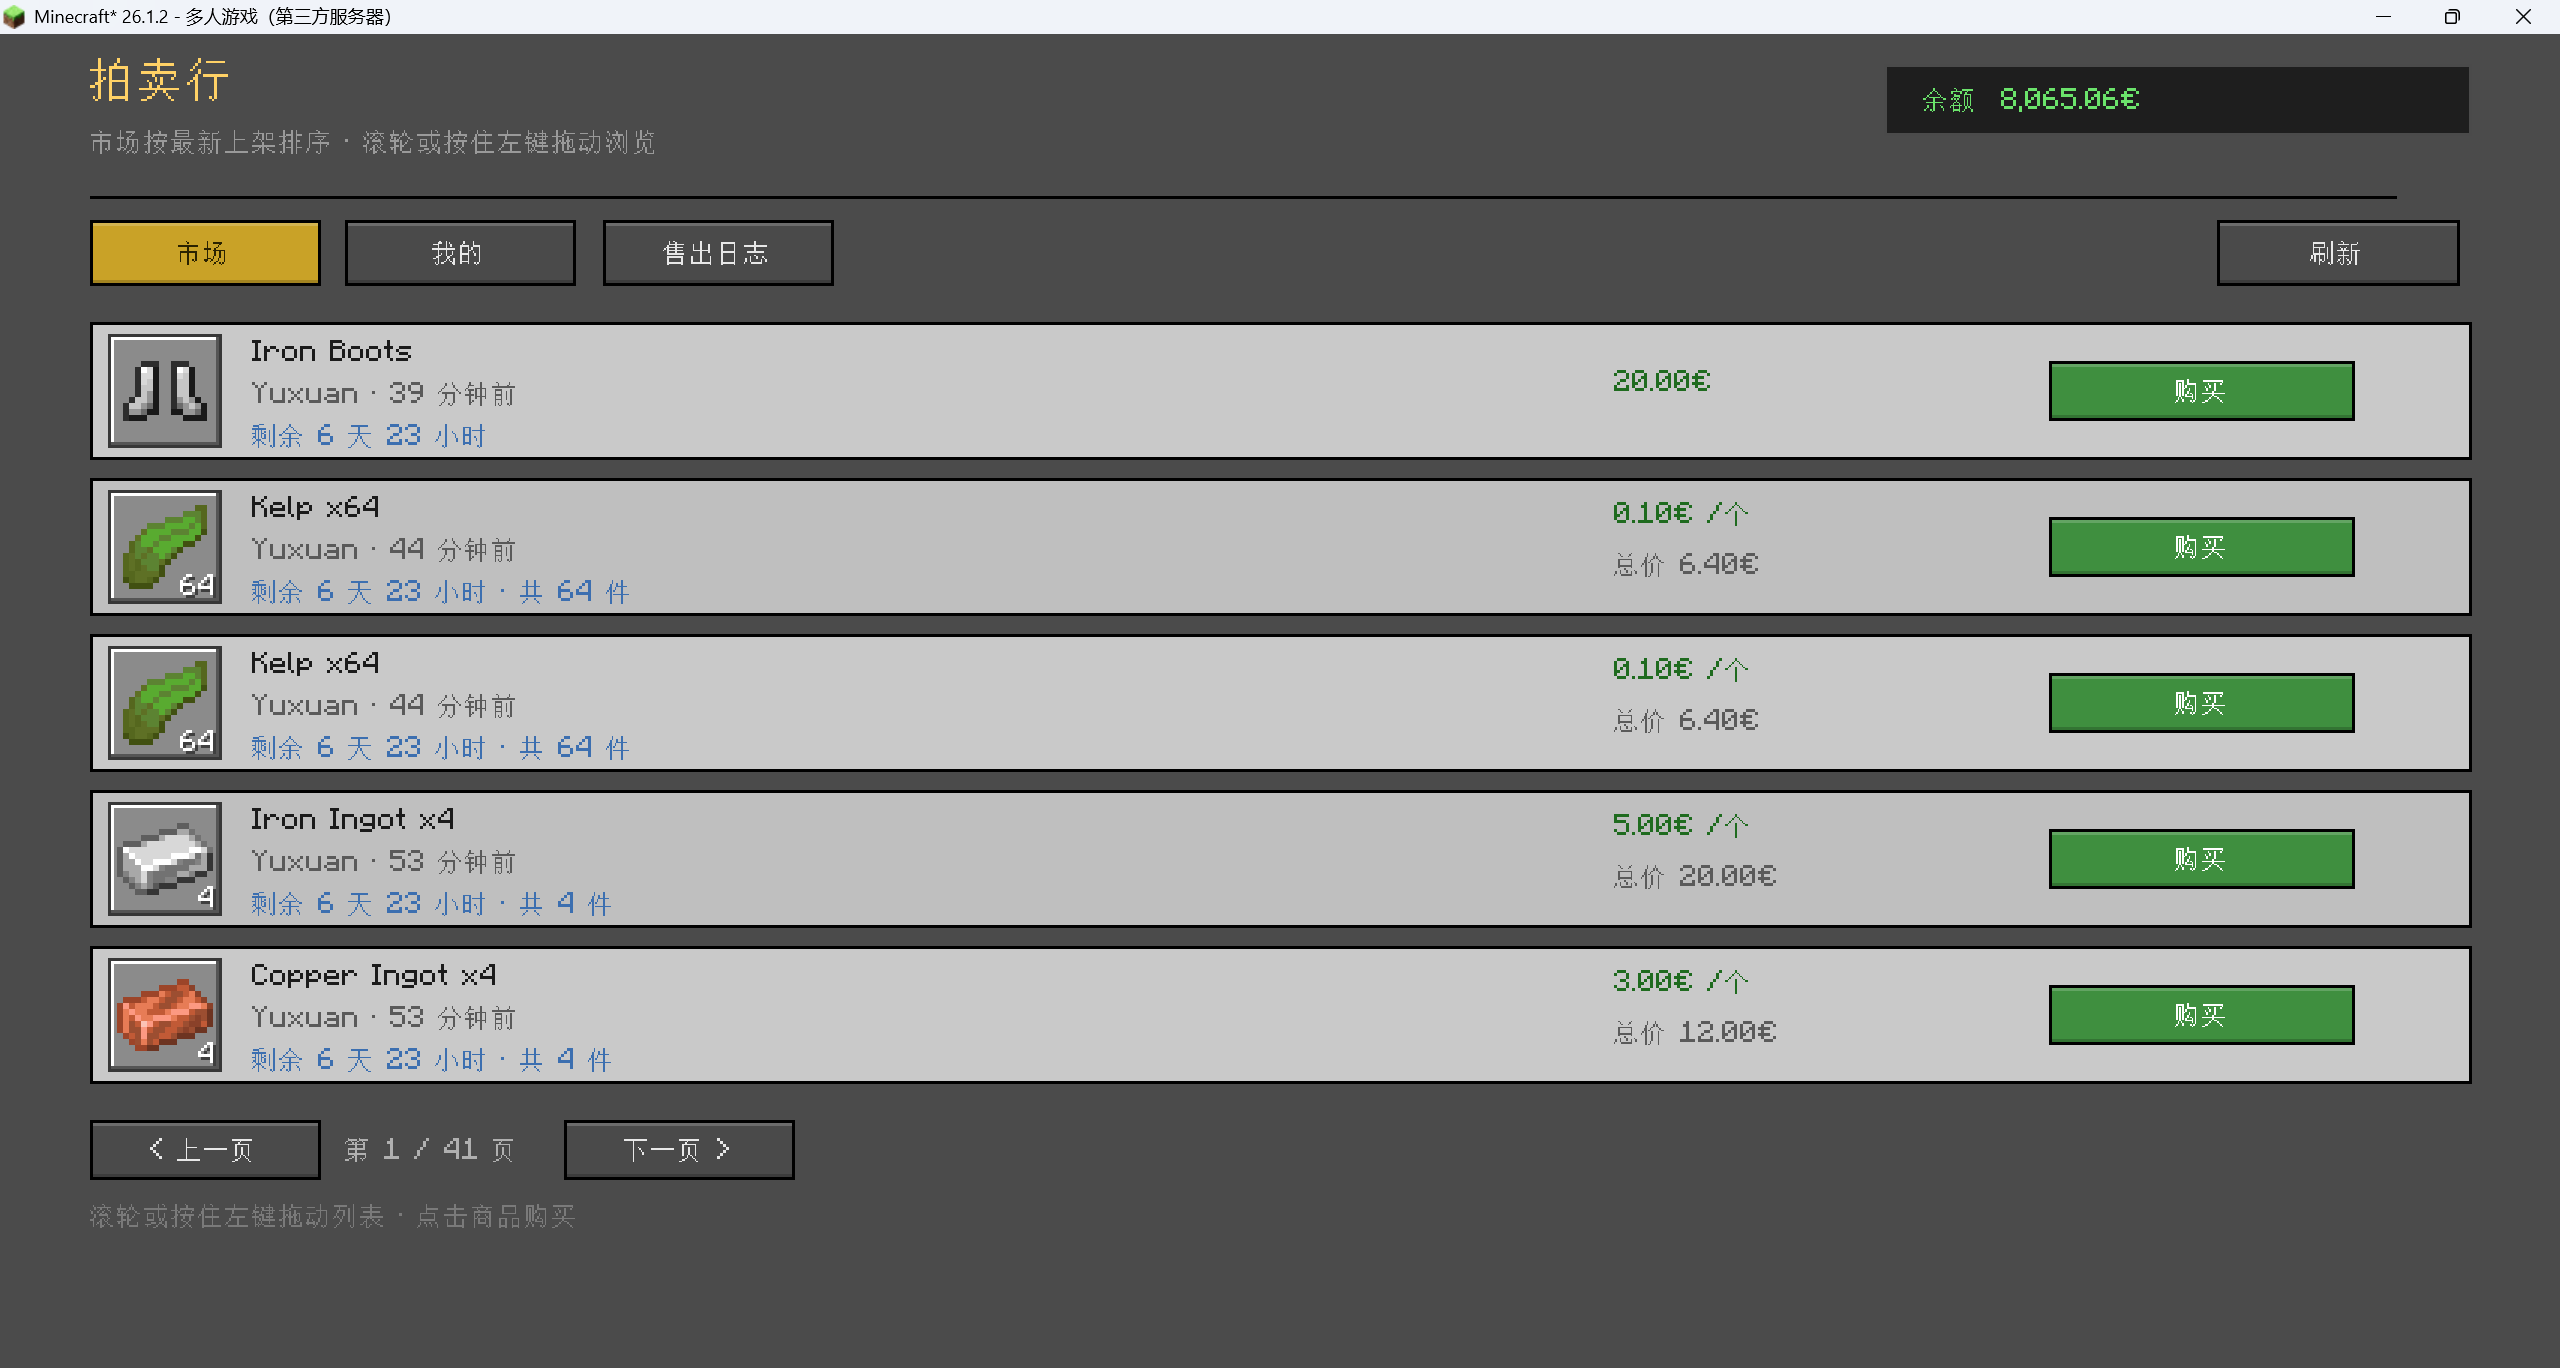
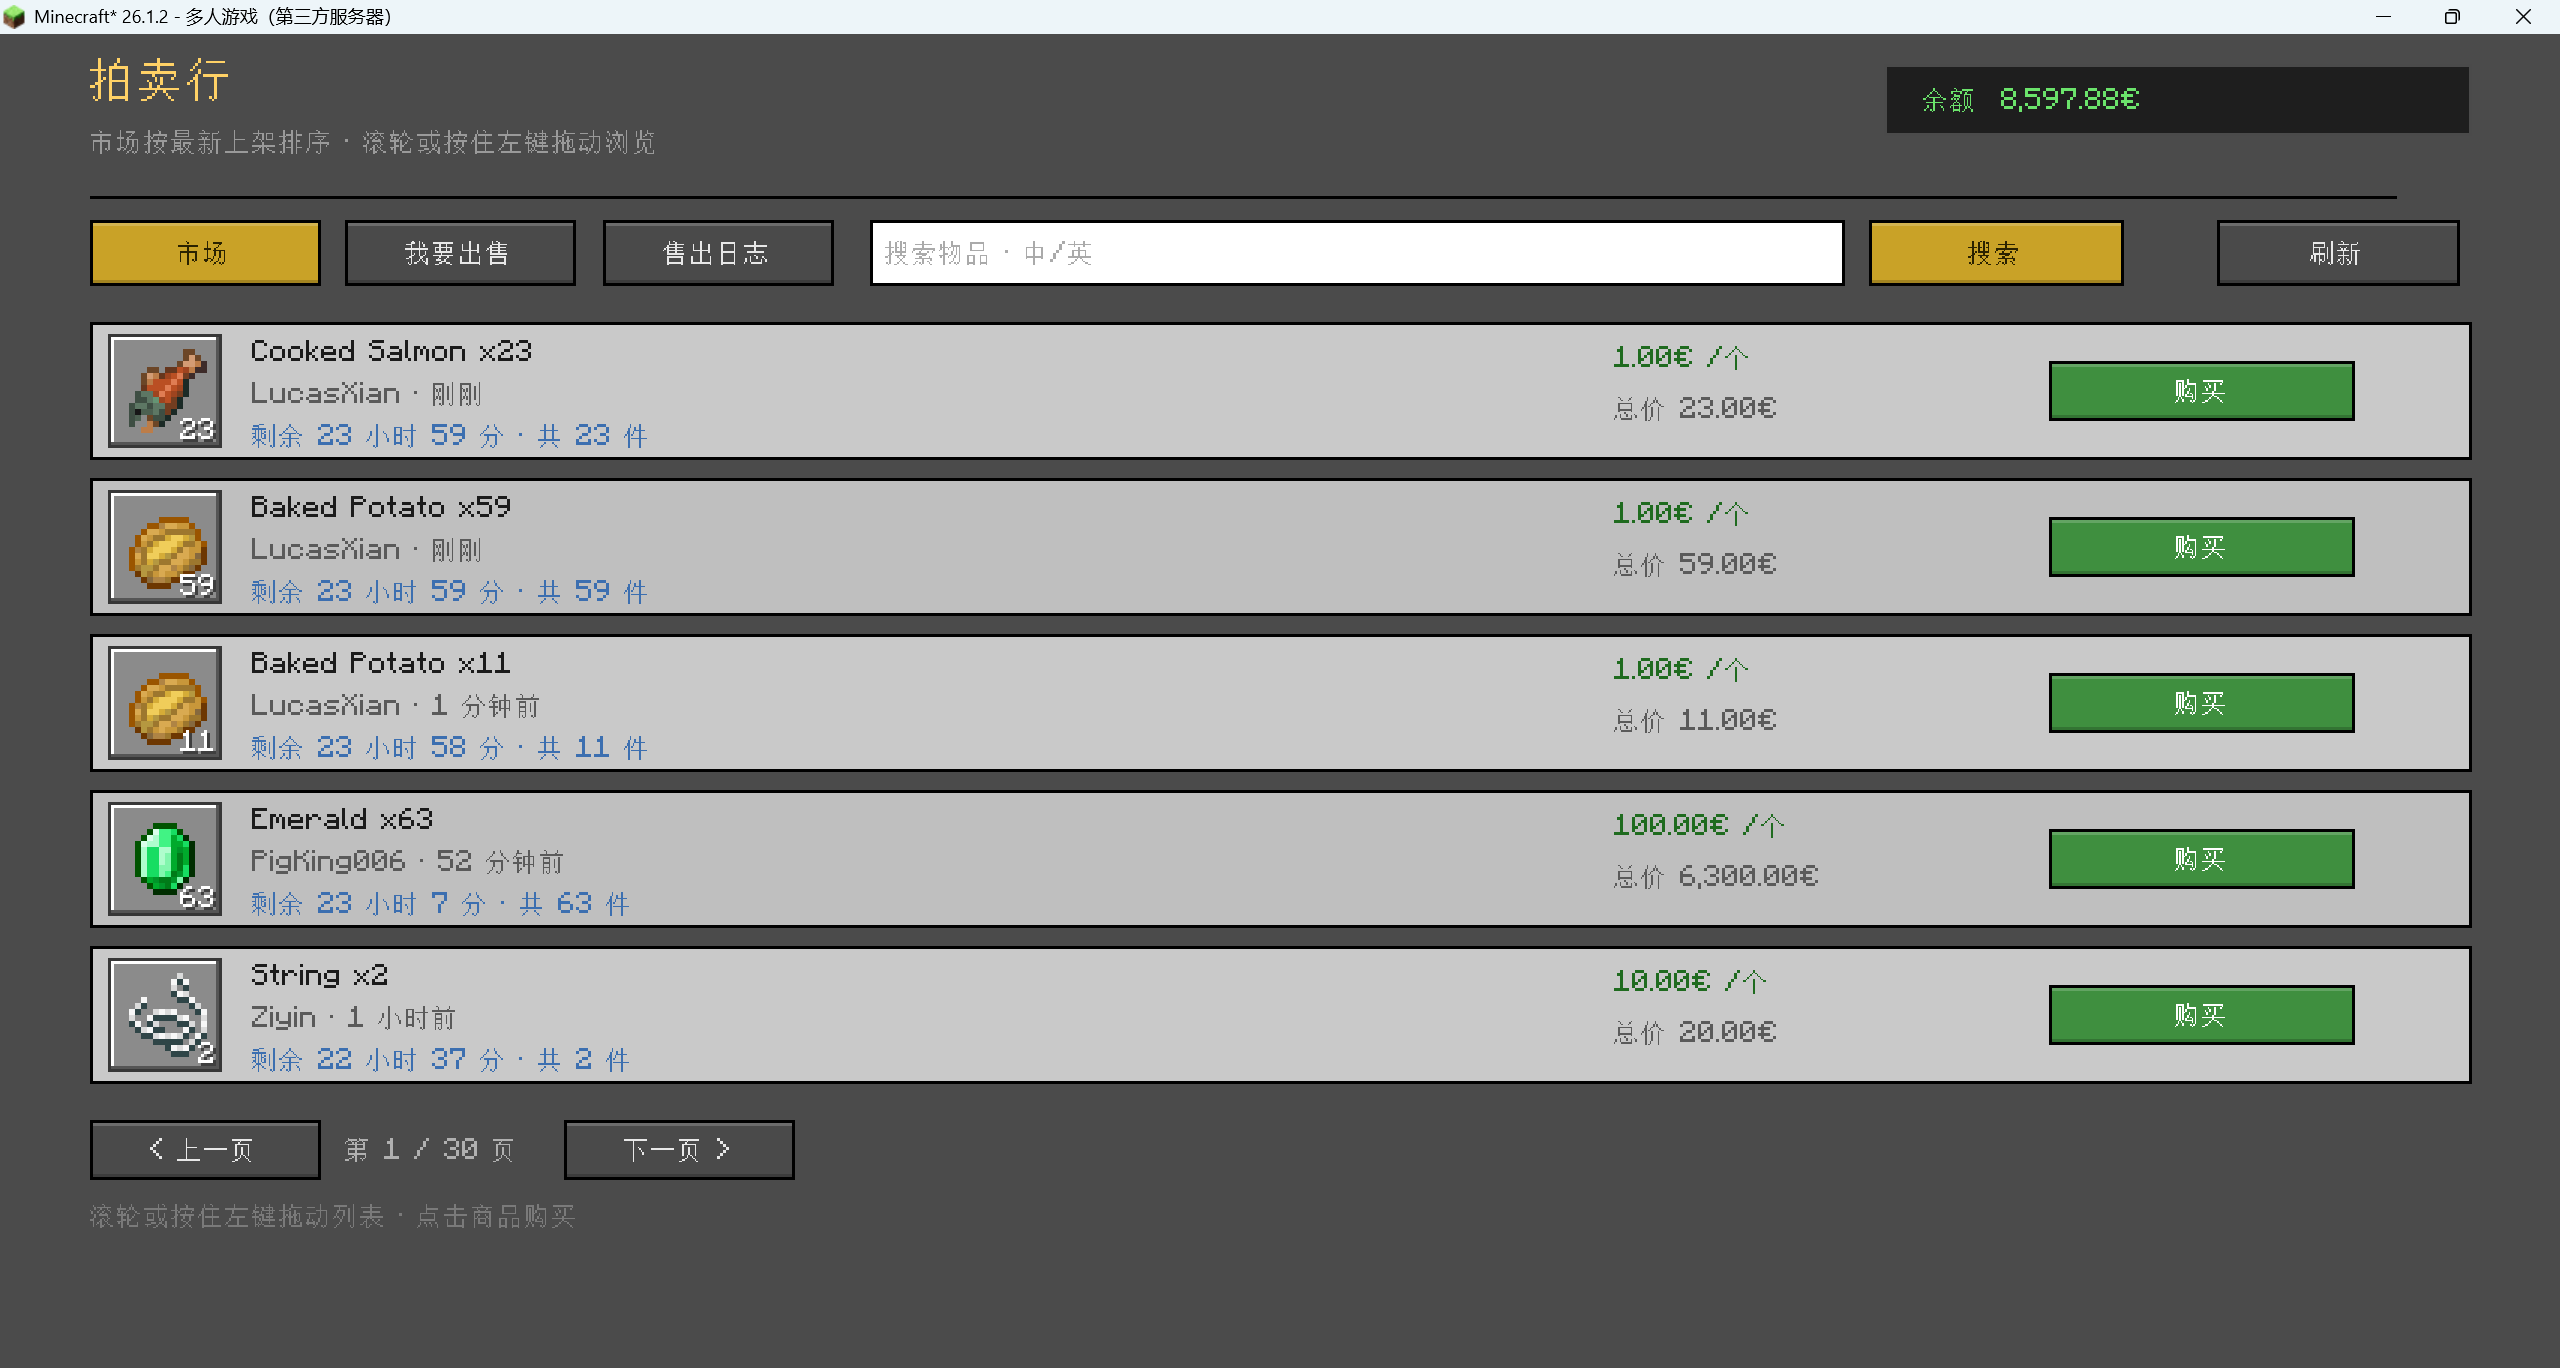
docs: 更新交易所截图并新增管理员工具箱实战案例图
- exchange.png 替换为最新拍卖行截图（分段、搜索、共 30 页翻页）

- 新增 admin-toolbox.png：选项卡 + 复选框开关的实战案例

diff --git a/README.md b/README.md
@@ -41,12 +41,17 @@
 | 交易所 | 炸弹猫 |
 |:---:|:---:|
 | <img src="doc/screenshots/exchange.png" width="420" /> | <img src="doc/screenshots/bomb-cat.png" width="420" /> |
-| 商品列表、翻页、滚动与购买确认 | 卡牌式布局与物品栏组合 |
+| 拍卖行商品列表、搜索、翻页（共 30 页）与购买确认 | 卡牌式布局与物品栏组合 |
 
 | 自定义菜单 |
 |:---:|
 | <img src="doc/screenshots/menu.png" width="860" /> |
 | 面板、按钮、复选框等控件组合的服务器菜单 |
+
+| 实战案例：管理员工具箱 |
+|:---:|
+| <img src="doc/screenshots/admin-toolbox.png" width="860" /> |
+| 选项卡 + 复选框开关：无限物品、耐久锁定、上帝模式、隐身模式，状态实时回传 |
 
 ## 安装
 
